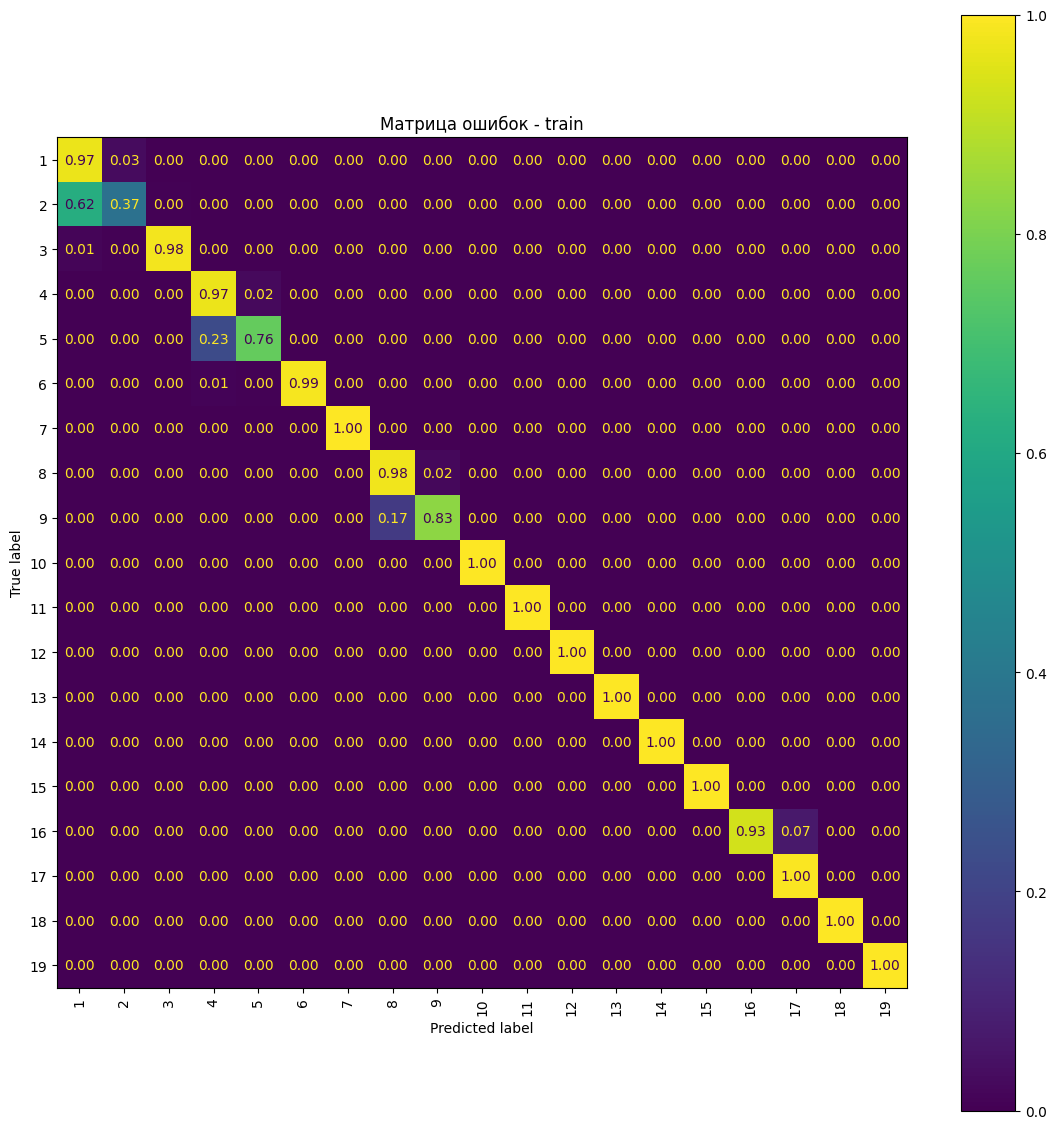
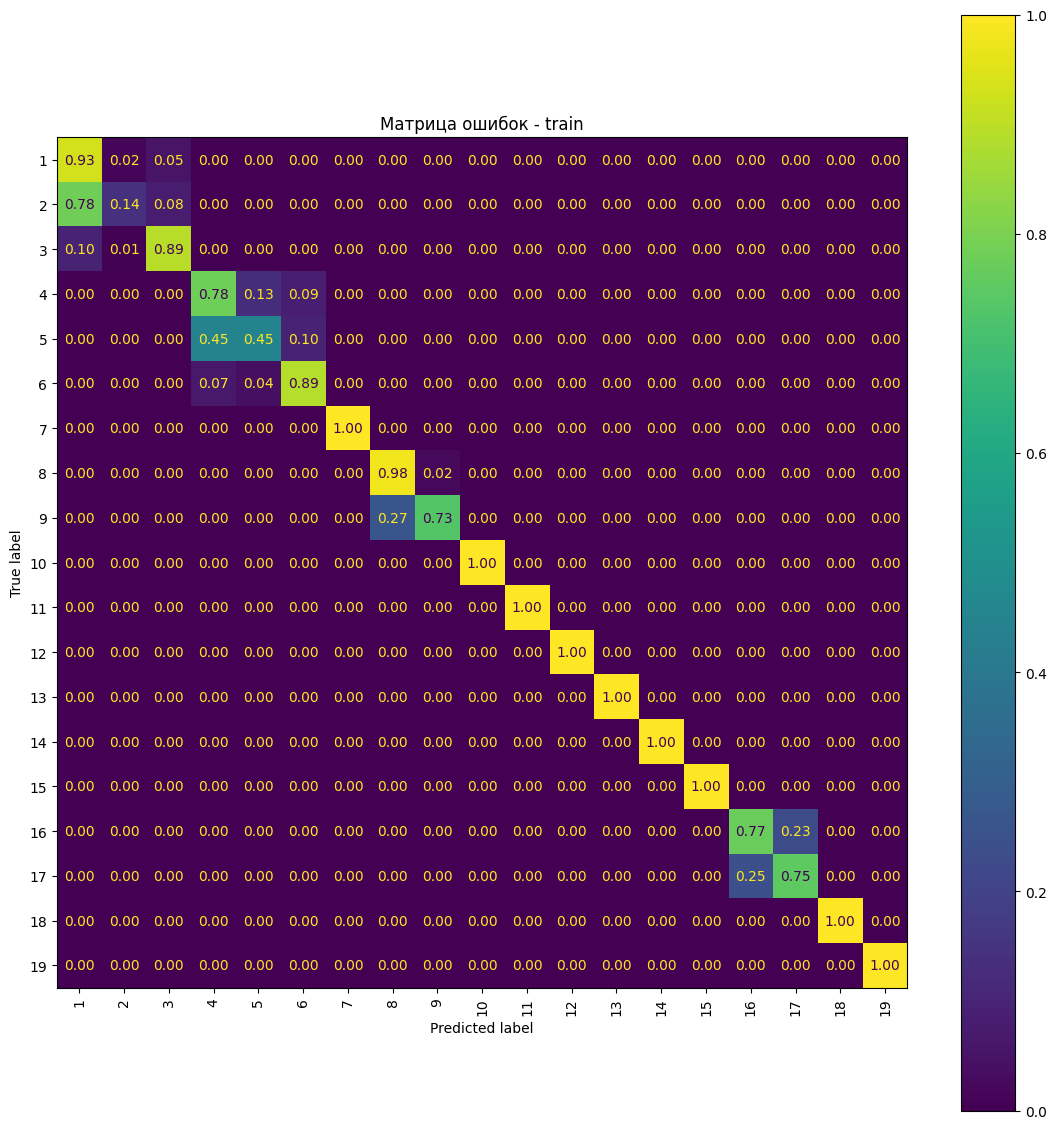
Улучшение интерфейса в UI, обучение knn модели

Changed region(s): [[0.0312, 0.124, 0.3122, 0.372], [0.6868, 0.713, 0.7805, 0.806], [0.3434, 0.434, 0.4371, 0.496]]

diff --git a/mlapp/UI.py b/mlapp/UI.py
@@ -1,6 +1,9 @@
 import traceback, threading, sqlite3, json, tkinter as tk, pandas as pd
-from tkinter import ttk
+from tkinter import ttk, font
 from tkinter.scrolledtext import ScrolledText
+from pygments import lex
+from pygments.lexers import CppLexer
+from pygments.token import Token
 from processing_cpp import compile_get_error_info, strip_cpp_comments, safe_extract_context, clear_build_tmp
 from .normalize_data import build_features_from_ctx, error_tokenizer
 from .import_model import load_sklearn_model_bundle
@@ -35,17 +38,131 @@ def enable_windows_dpi_awareness() -> None:
     except Exception:
         pass
 
+
+def apply_dark_cpp_editor_style(text : tk.Text) -> None:
+    text.configure(
+        wrap="none",
+        undo=True,
+        maxundo=-1,
+        bg="#1e1e1e",
+        fg="#d4d4d4",
+        insertbackground="#d4d4d4",
+        selectbackground="#264f78",
+        selectforeground="#ffffff",
+        borderwidth=0,
+        relief="flat",
+    )
+
     try:
-        # System DPI aware (Vista+)
-        user32 = ctypes.WinDLL("user32", use_last_error=True)
-        user32.SetProcessDPIAware()
-    except Exception:
-        pass
+        text.configure(font=("Cascadia Code", 11))
+    except tk.TclError:
+        fixed = font.nametofont("TkFixedFont")
+        fixed.configure(size=11)
+        text.configure(font=fixed)
+
+    f = font.Font(font=text["font"])
+    tabw = f.measure(" " * 4)
+    text.configure(tabs=(tabw,))
+    text.tag_configure("current_line", background="#252526")
+
+
+CPP_TAGS = (
+    "tok_keyword", "tok_type", "tok_func", "tok_name",
+    "tok_string", "tok_number", "tok_comment",
+    "tok_op", "tok_punct", "tok_preproc", "tok_error",
+)
+
+def _token_to_tag(ttype):
+    if ttype in Token.Comment.Preproc or ttype in Token.Comment.PreprocFile:
+        return "tok_preproc"
+    if ttype in Token.Comment:
+        return "tok_comment"
+    if ttype in Token.Name.Class or ttype in Token.Keyword.Type:
+        return "tok_type"
+    if ttype in Token.Keyword:
+        return "tok_keyword"
+    if ttype in Token.Name.Function:
+        return "tok_func"
+    if ttype in Token.Name:
+        return "tok_name"
+    if ttype in Token.String:
+        return "tok_string"
+    if ttype in Token.Number:
+        return "tok_number"
+    if ttype in Token.Operator:
+        return "tok_op"
+    if ttype in Token.Punctuation:
+        return "tok_punct"
+    if ttype in Token.Error:
+        return "tok_error"
+    return None
+
+
+class CppSyntaxHighlighter:
+    def __init__(self, text: tk.Text, *, debounce_ms: int = 120) -> None:
+        self.text = text
+        self.lexer = CppLexer()
+        self.debounce_ms = debounce_ms
+        self._after_id = None
+
+        text.tag_configure("tok_keyword", foreground="#c586c0")
+        text.tag_configure("tok_type",    foreground="#4090d6")
+        text.tag_configure("tok_func",    foreground="#dcdcaa")
+        text.tag_configure("tok_name",    foreground="#9cdcfe")
+        text.tag_configure("tok_string",  foreground="#ce9178")
+        text.tag_configure("tok_number",  foreground="#b5ce89")
+        text.tag_configure("tok_comment", foreground="#6a9955")
+        text.tag_configure("tok_preproc", foreground="#808080")
+        text.tag_configure("tok_op",      foreground="#d4d4d4")
+        text.tag_configure("tok_punct",   foreground="#d4d4d4")
+        text.tag_configure("tok_error",   foreground="#f44747", underline=True)
+
+        text.bind("<KeyRelease>", self._schedule, add="+")
+        text.bind("<<Paste>>", self._schedule, add="+")
+        text.bind("<<Cut>>", self._schedule, add="+")
+        text.bind("<<Undo>>", self._schedule, add="+")
+        text.bind("<<Redo>>", self._schedule, add="+")
+        text.bind("<ButtonRelease-1>", self._update_current_line, add="+")
+        text.bind("<KeyRelease>", self._update_current_line, add="+")
+
+        self.highlight_now()
+        self._update_current_line()
+
+    def _schedule(self, event=None):
+        if self._after_id is not None:
+            self.text.after_cancel(self._after_id)
+        self._after_id = self.text.after(self.debounce_ms, self.highlight_now)
+
+    def highlight_now(self):
+        self._after_id = None
+        code = self.text.get("1.0", "end-1c")
+
+        for tag in CPP_TAGS:
+            self.text.tag_remove(tag, "1.0", "end")
+
+        pos = 0
+        for ttype, value in lex(code, self.lexer):
+            if not value:
+                continue
+            tag = _token_to_tag(ttype)
+            if tag:
+                start = f"1.0 + {pos} chars"
+                end = f"1.0 + {pos + len(value)} chars"
+                self.text.tag_add(tag, start, end)
+            pos += len(value)
+
+    def _update_current_line(self, event=None):
+        self.text.tag_remove("current_line", "1.0", "end")
+        line = self.text.index("insert").split(".")[0]
+        self.text.tag_add("current_line", f"{line}.0", f"{line}.0 lineend+1c")
 
 
 class CompileErrorAdvisorApp(tk.Tk):
     def __init__(self) -> None:
         super().__init__()
+
+        self._closing = threading.Event()
+        self._worker_thread = None
 
         bundle = load_sklearn_model_bundle(
             MODELS_DIR / "sgd_log_regression_1",
@@ -84,6 +201,8 @@ class CompileErrorAdvisorApp(tk.Tk):
             "1.0",
             "#include <iostream>\n\nint main() {\n    std::cout << \"Hello\" << std::endl;\n    return 0;\n}\n",
         )
+        apply_dark_cpp_editor_style(self.code_text)
+        self.cpp_hl = CppSyntaxHighlighter(self.code_text)
 
         controls = ttk.Frame(root)
         controls.grid(row=2, column=0, sticky="ew")
@@ -106,6 +225,8 @@ class CompileErrorAdvisorApp(tk.Tk):
         self.reco_var = tk.StringVar(value="Нажмите «Получить рекомендацию»")
         self.reco_msg = tk.Message(out_frame, textvariable=self.reco_var, width=850, justify="left")
         self.reco_msg.grid(row=0, column=0, sticky="ew")
+
+        self.protocol("WM_DELETE_WINDOW", self.on_close_clicked)
 
 
     def on_clear_clicked(self) -> None:
@@ -155,19 +276,35 @@ class CompileErrorAdvisorApp(tk.Tk):
         self.status_var.set("Анализирую...")
 
         def worker() -> None:
+            if self._closing.is_set():
+                return
             try:
                 reco = self.get_recommendation(cpp_code)
             except Exception:
                 reco = "Ошибка при анализе:\n" + traceback.format_exc()
-            self.after(0, self._finish_analysis, reco)
 
-        threading.Thread(target=worker, daemon=True).start()
+            if not self._closing.is_set():
+                self.after(0, self._finish_analysis, reco)
+
+        self._worker_thread = threading.Thread(target=worker, daemon=True)
+        self._worker_thread.start()
 
 
     def _finish_analysis(self, recommendation: str) -> None:
         self.reco_var.set(recommendation)
         self.status_var.set("Готово")
         self.check_btn.configure(state="normal")
+
+
+    def on_close_clicked(self) -> None:
+        self._closing.set()
+        try:
+            self.check_btn.configure(state="disabled")
+            self.clear_btn.configure(state="disabled")
+        except Exception:
+            pass
+        clear_build_tmp()
+        self.destroy()
 
 
 if __name__ == "__main__":

diff --git a/ml_helpers/vectorizers.py b/ml_helpers/vectorizers.py
@@ -59,14 +59,14 @@ def build_text_tokens(field_cfg : dict, *, lowercase : bool, naive_bayes_compati
     else:
         raise ValueError(f"Unsupported mode: {mode}")
 
-    scaler_name = field_cfg["scaler"]
-    if scaler_name == "MaxAbsScaler":
-        scaler = MaxAbsScaler()
+    scale_name = field_cfg["scale"]
+    if scale_name == "MaxAbsScaler":
+        scale = MaxAbsScaler()
     else:
-        raise ValueError(f"Unsupported scaler: {scaler_name}")
+        raise ValueError(f"Unsupported scaler: {scale_name}")
     
     to_tokens = FunctionTransformer(_tokens_col_to_tokens, validate=False)
-    steps = [("to_tokens", to_tokens), ("vect", vect), ("scale", scaler)]
+    steps = [("to_tokens", to_tokens), ("vect", vect), ("scale", scale)]
     return Pipeline(steps)
 
 

diff --git a/description/description.md b/description/description.md
@@ -85,58 +85,58 @@
 ```
               precision    recall  f1-score   support
 
-           1       0.92      0.98      0.95     40213
-           2       0.57      0.26      0.36      4529
-           3       0.99      0.98      0.99     10169
-           4       0.83      0.98      0.90      5148
-           5       0.92      0.67      0.78      2721
-           6       1.00      0.98      0.99      6100
+           1       0.89      0.93      0.91     40213
+           2       0.45      0.13      0.20      4529
+           3       0.79      0.89      0.84     10169
+           4       0.70      0.76      0.73      5148
+           5       0.52      0.44      0.48      2721
+           6       0.88      0.88      0.88      6100
            7       1.00      1.00      1.00     20583
            8       0.98      0.98      0.98      8004
-           9       0.52      0.70      0.60       400
+           9       0.55      0.67      0.60       400
           10       1.00      1.00      1.00     15453
           11       1.00      1.00      1.00      8687
           12       1.00      1.00      1.00     11782
           13       1.00      1.00      1.00     15432
-          14       0.99      0.99      0.99      2652
+          14       1.00      1.00      1.00      2652
           15       1.00      1.00      1.00      2189
-          16       0.98      0.93      0.95      1256
-          17       0.94      0.99      0.97      1508
+          16       0.70      0.70      0.70      1256
+          17       0.74      0.76      0.75      1508
           18       1.00      1.00      1.00      5799
           19       1.00      1.00      1.00      2666
 
-    accuracy                           0.96    165291
-   macro avg       0.93      0.92      0.92    165291
-weighted avg       0.96      0.96      0.96    165291
+    accuracy                           0.92    165291
+   macro avg       0.85      0.85      0.85    165291
+weighted avg       0.92      0.92      0.92    165291
 ```
 
 Оценка точности для тестовой выборки:
 ```
               precision    recall  f1-score   support
 
-           1       0.92      0.98      0.95      7097
-           2       0.61      0.28      0.39       799
-           3       0.99      0.99      0.99      1795
-           4       0.84      0.97      0.90       908
-           5       0.93      0.67      0.78       480
-           6       1.00      0.99      0.99      1077
+           1       0.89      0.93      0.91      7097
+           2       0.46      0.11      0.18       799
+           3       0.79      0.91      0.85      1795
+           4       0.67      0.77      0.72       908
+           5       0.51      0.40      0.44       480
+           6       0.89      0.87      0.88      1077
            7       1.00      1.00      1.00      3633
            8       0.99      0.98      0.99      1413
-           9       0.69      0.76      0.72        71
+           9       0.70      0.77      0.73        71
           10       1.00      1.00      1.00      2727
           11       1.00      1.00      1.00      1533
           12       1.00      1.00      1.00      2079
           13       1.00      1.00      1.00      2723
-          14       0.98      1.00      0.99       468
+          14       1.00      1.00      1.00       468
           15       1.00      1.00      1.00       386
-          16       0.98      0.88      0.93       222
-          17       0.91      1.00      0.95       266
+          16       0.69      0.74      0.72       222
+          17       0.77      0.74      0.76       266
           18       1.00      1.00      1.00      1023
           19       1.00      1.00      1.00       470
 
-    accuracy                           0.96     29170
-   macro avg       0.94      0.92      0.92     29170
-weighted avg       0.96      0.96      0.96     29170
+    accuracy                           0.93     29170
+   macro avg       0.86      0.85      0.85     29170
+weighted avg       0.92      0.93      0.92     29170
 ```
 
 Матрица ошибок модели для обучающей выборки:
@@ -145,6 +145,12 @@ weighted avg       0.96      0.96      0.96     29170
 Матрица ошибок модели для тестовой выборки:
 ![matrix_confusion_model_1_test](matrix_confusion_model_1_test.png)
 
-По полученным результатам можно увидеть, что модель справляется хуже всего с классификацией 2-го, 5-го и 9-го классов, ошибочно классифицируя экземпляры в соседние классы. Это связано с тем, что рекомендации, соответствующие данным классам и их соседям, связаны с одними теми же кодами ошибок компиляции.
+По полученным результатам можно увидеть, что модель справляется хуже всего с классификацией 2-го, 5-го, 9-го и 17-го классов, ошибочно классифицируя экземпляры в соседние классы. Это связано с тем, что рекомендации, соответствующие данным классам и их соседям, связаны с одними теми же кодами ошибок компиляции.
+
+`ROC`-кривые на всех 5 `Fold`'ах обучающей выборки и тестовой выборки целиком со способом усреднения `macro` выглядят следующим образом:
+![roc-auc_model_1_macro](roc-auc_model_1_macro.png)
+
+`ROC`-кривые со способом усреднения `micro`:
+![roc-auc_model_1_micro](roc-auc_model_1_micro.png)
 
 В среднем модель даёт хорошие показатели оценок качества моделей
